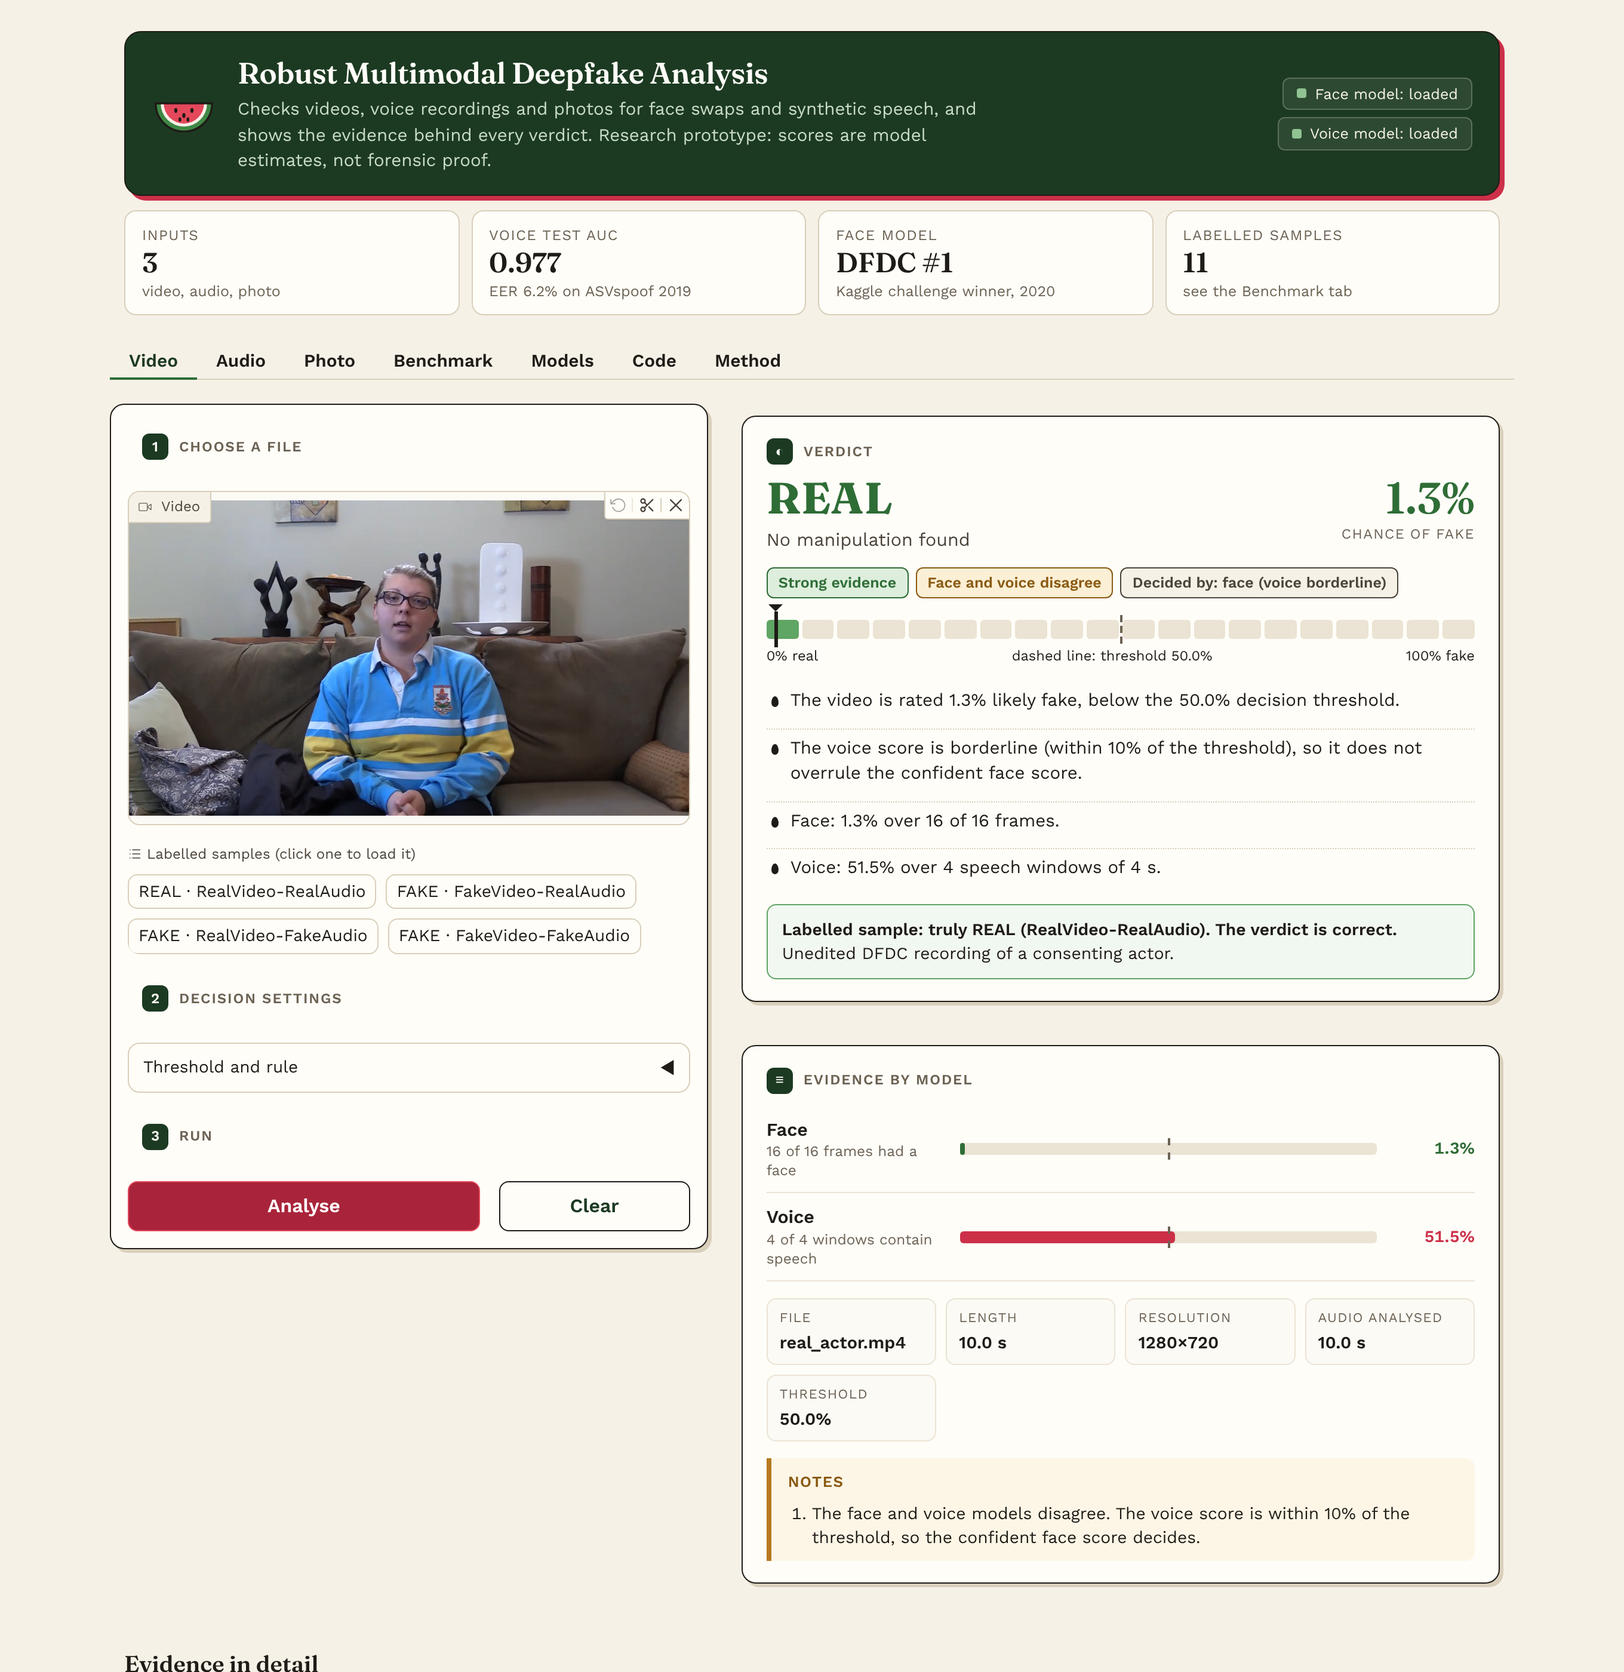
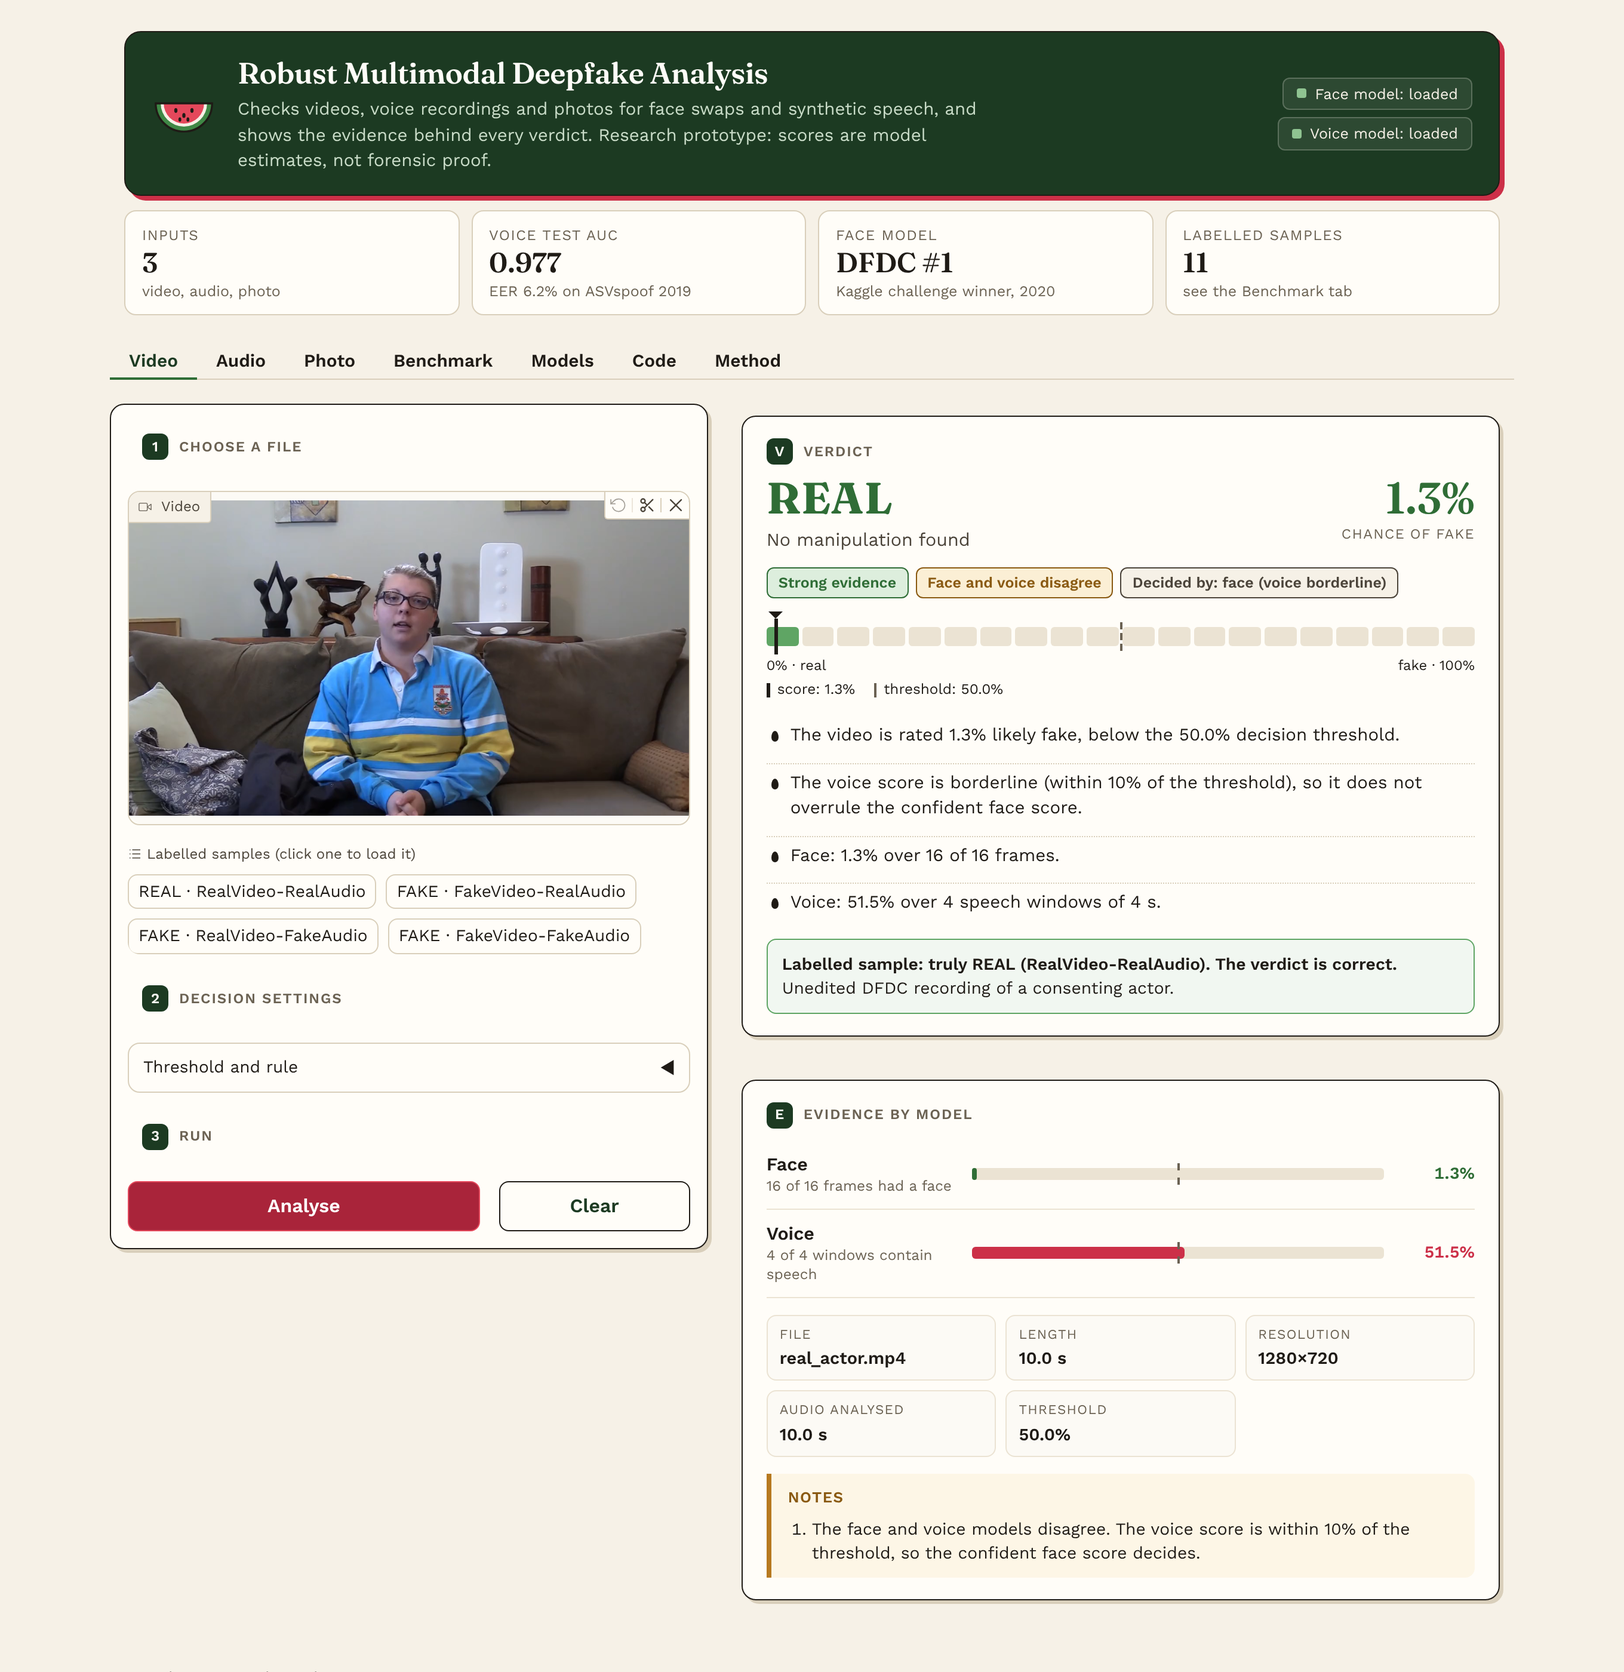
Fix unreadable and overlapping UI: dark mode, card overflow, code blocks
- Dark mode: the design is light only. Every *_dark theme variable now gets
  the light value, and a small head script removes Gradio's dark class, so an
  OS in dark mode no longer puts light text on the cream cards.
- Model cards and other grids: children get min-width 0, long words such as
  URLs wrap, and columns use minmax(min(100%, N), 1fr), so cards no longer push
  text across each other at narrow widths. The second model card no longer
  sits lower than the first.
- Verdict meter: only the two end labels sit under the bar; score and
  threshold are in a separate legend line, so labels do not collide.
- Evidence rows stack name, value and bar on phones; the verdict header wraps.
- Timeline chart: legend moved below the plot so it cannot cover the lines.
- Code blocks: no line wrapping (it broke line-number alignment), space under
  the copy/download toolbar so it does not cover the first line.

Checked in Chromium at 1280 px (dark OS), 1024, 768 and 390 px with a script
that flags any element spilling outside its card or overlapping a sibling card:
none found.

Claude-Session: https://claude.ai/code/session_01McjLYk3N3Q4Fcg5iDupnNm

diff --git a/src/deepfake/demo_theme.py b/src/deepfake/demo_theme.py
@@ -11,6 +11,8 @@ shadow, so cards read like printed stickers on paper.
 
 from __future__ import annotations
 
+import inspect
+
 import gradio as gr
 
 FLESH = gr.themes.Color(c50="#fff1f1", c100="#ffe1e1", c200="#ffc6c8", c300="#fb9da3", c400="#f2727d",
@@ -26,12 +28,13 @@ PITH = gr.themes.Color(c50="#fcfaf5", c100="#f6f1e7", c200="#ebe3d3", c300="#d9c
 COLORS = {"fake": "#cc3048", "real": "#2f6d36", "unsure": "#b7791f", "ink": "#1f1b16",
           "muted": "#6b6253", "line": "#d9cfbb"}
 
-THEME = gr.themes.Base(
+_LIGHT = dict(
     primary_hue=FLESH, secondary_hue=RIND, neutral_hue=PITH,
     radius_size=gr.themes.sizes.radius_md, spacing_size=gr.themes.sizes.spacing_md,
     font=[gr.themes.GoogleFont("Work Sans"), "ui-sans-serif", "system-ui", "sans-serif"],
     font_mono=[gr.themes.GoogleFont("JetBrains Mono"), "ui-monospace", "Menlo", "monospace"],
-).set(
+)
+_VARS = dict(
     body_background_fill="#f6f1e7", body_text_color="#1f1b16", body_text_color_subdued="#6b6253",
     background_fill_primary="#fffdf8", background_fill_secondary="#fcfaf5",
     block_background_fill="#fffdf8", block_border_color="#d9cfbb", block_border_width="1.5px",
@@ -48,10 +51,41 @@ THEME = gr.themes.Base(
     slider_color="#cc3048", checkbox_label_background_fill_selected="#ddeedd",
     color_accent="#2f6d36", color_accent_soft="#ddeedd", link_text_color="#2f6d36",
     link_text_color_hover="#a9243a", table_even_background_fill="#fcfaf5", table_odd_background_fill="#fffdf8",
+    body_text_color_strong="#1f1b16", block_info_text_color="#6b6253", code_background_fill="#fcfaf5",
+    panel_background_fill="#fcfaf5", panel_border_color="#d9cfbb", checkbox_background_color="#fffdf8",
+    checkbox_border_color="#d9cfbb", input_placeholder_color="#807562", accordion_text_color="#1f1b16",
+    table_text_color="#1f1b16", table_border_color="#d9cfbb", button_cancel_background_fill="#fffdf8",
 )
+
+
+def _build_theme() -> gr.themes.Base:
+    """The design is light only: every *_dark variable gets the light value, so an OS in dark mode
+    does not put light text on the cream cards."""
+    theme = gr.themes.Base(**_LIGHT)
+    accepted = inspect.signature(theme.set).parameters
+    theme.set(**{k: v for k, v in _VARS.items() if k in accepted})
+    dark = {}
+    for name in accepted:
+        if name.endswith("_dark") and hasattr(theme, name[:-5]):
+            value = getattr(theme, name[:-5])
+            if isinstance(value, str):
+                dark[name] = value
+    theme.set(**dark)
+    return theme
+
+
+THEME = _build_theme()
 
 CSS = """
 .gradio-container {max-width: 1240px !important; margin: 0 auto !important;}
+:root, .dark {color-scheme: light;}
+[class*="wm-"], [class*="wm-"] * {box-sizing: border-box;}
+.wm-card, .wm-plain, .wm-stat, .wm-tile, .wm-table-wrap, .wm-code-head, .wm-models, .wm-grid2, .wm-empty
+  {color: #1f1b16; min-width: 0; overflow-wrap: anywhere; word-break: normal;}
+.wm-card code, .wm-plain code, .wm-lead code {background: #f6f1e7; color: #4b443a; padding: 1px 5px; border-radius: 4px;
+  font-size: 0.82em; overflow-wrap: anywhere;}
+.wm-models > *, .wm-grid2 > *, .wm-strip > *, .wm-tiles > *, .wm-dl > *, .wm-steps > * {min-width: 0;}
+.prose .wm-card h3, .wm-card h3 {color: #1f1b16; margin-top: 0;}
 .gradio-container h1, .gradio-container h2, .gradio-container h3, .wm-serif
   {font-family: 'Fraunces', Georgia, 'Times New Roman', serif; letter-spacing: -0.01em;}
 footer {display: none !important;}
@@ -70,7 +104,7 @@ footer {display: none !important;}
 .wm-led {width: 8px; height: 8px; border-radius: 2px; display: inline-block;}
 .wm-led.on {background: #8fc391;} .wm-led.off {background: #807562;}
 
-.wm-strip {display: grid; grid-template-columns: repeat(4, minmax(0, 1fr)); gap: 10px; margin: 12px 0 4px;}
+.wm-strip {display: grid; grid-template-columns: repeat(auto-fit, minmax(min(100%, 200px), 1fr)); gap: 10px; margin: 12px 0 4px;}
 .wm-stat {background: #fffdf8; border: 1.5px solid #d9cfbb; border-radius: 10px; padding: 10px 14px;}
 .wm-stat b {display: block; font-family: 'Fraunces', Georgia, serif; font-size: 1.45rem; font-weight: 600;
   font-variant-numeric: tabular-nums; color: #1f1b16; line-height: 1.15;}
@@ -85,6 +119,7 @@ footer {display: none !important;}
 .wm-card {background: #fffdf8; border: 1.5px solid #1f1b16; border-radius: 12px; padding: 18px 20px;
   box-shadow: 3px 3px 0 #d9cfbb;}
 .wm-card + .wm-card {margin-top: 12px;}
+.wm-models > .wm-card, .wm-grid2 > .wm-card {margin-top: 0 !important;}
 .wm-plain {background: #fffdf8; border: 1.5px solid #d9cfbb; border-radius: 12px; padding: 16px 18px;}
 .wm-kicker {display: flex; align-items: center; gap: 9px; font-size: 0.75rem; font-weight: 600;
   text-transform: uppercase; letter-spacing: 0.08em; color: #6b6253; margin: 0 0 10px;}
@@ -107,10 +142,10 @@ footer {display: none !important;}
   letter-spacing: 0.08em; text-transform: uppercase;}
 
 /* ---------- verdict ---------- */
-.wm-verdict {display: grid; grid-template-columns: 1fr auto; gap: 14px; align-items: start;}
+.wm-verdict {display: flex; flex-wrap: wrap; justify-content: space-between; gap: 10px 18px; align-items: flex-start;}
 .wm-word {font-family: 'Fraunces', Georgia, serif; font-size: 2.3rem; font-weight: 700; line-height: 1; letter-spacing: 0.01em;}
 .wm-label {margin-top: 6px; font-size: 0.95rem; color: #4b443a;}
-.wm-num {text-align: right; font-family: 'Fraunces', Georgia, serif; font-size: 2.3rem; font-weight: 600;
+.wm-num {text-align: right; margin-left: auto; font-family: 'Fraunces', Georgia, serif; font-size: 2.3rem; font-weight: 600;
   line-height: 1; font-variant-numeric: tabular-nums;}
 .wm-num small {display: block; font-family: 'Work Sans', sans-serif; font-size: 0.74rem; font-weight: 500;
   color: #6b6253; margin-top: 6px; text-transform: uppercase; letter-spacing: 0.06em;}
@@ -120,14 +155,18 @@ footer {display: none !important;}
 .wm-tag.g {color: #2f6d36; background: #ddeedd;} .wm-tag.r {color: #a9243a; background: #ffe1e1;}
 .wm-tag.y {color: #8a5a12; background: #fbefd5;} .wm-tag.n {color: #4b443a; background: #f6f1e7;}
 
-.wm-meter {margin: 18px 0 4px;}
+.wm-meter {margin: 22px 0 4px; padding-top: 2px;}
 .wm-track {position: relative; height: 16px; display: grid; grid-template-columns: repeat(20, 1fr); gap: 3px;}
 .wm-track span {border-radius: 3px; background: #ebe3d3;}
 .wm-track span.lit-g {background: #5fa564;} .wm-track span.lit-r {background: #e4485b;}
 .wm-mark {position: absolute; top: -7px; width: 0; height: 30px; border-left: 3px solid #1f1b16; transform: translateX(-1.5px);}
 .wm-mark::after {content: ""; position: absolute; top: -6px; left: -7.5px; border: 6px solid transparent; border-top-color: #1f1b16;}
 .wm-thr {position: absolute; top: -4px; height: 24px; border-left: 2px dashed #6b6253;}
-.wm-scale {display: flex; justify-content: space-between; font-size: 0.74rem; color: #6b6253; margin-top: 6px;}
+.wm-scale {display: flex; justify-content: space-between; gap: 12px; font-size: 0.74rem; color: #6b6253; margin-top: 8px;}
+.wm-legend {display: flex; flex-wrap: wrap; gap: 4px 16px; font-size: 0.76rem; color: #6b6253; margin-top: 4px;}
+.wm-legend span {display: inline-flex; align-items: center; gap: 6px; white-space: nowrap;}
+.wm-legend .k-mark {width: 0; height: 12px; border-left: 3px solid #1f1b16;}
+.wm-legend .k-thr {width: 0; height: 12px; border-left: 2px dashed #6b6253;}
 .wm-why {margin: 14px 0 0; padding: 0; list-style: none;}
 .wm-why li {position: relative; padding: 5px 0 5px 20px; font-size: 0.92rem; line-height: 1.45; border-top: 1px dotted #d9cfbb;}
 .wm-why li:first-child {border-top: none;}
@@ -139,7 +178,7 @@ footer {display: none !important;}
 .wm-truth b {display: block; margin-bottom: 2px;}
 
 /* ---------- evidence ---------- */
-.wm-row {display: grid; grid-template-columns: 150px 1fr 70px; gap: 12px; align-items: center;
+.wm-row {display: grid; grid-template-columns: minmax(110px, 160px) minmax(0, 1fr) 64px; gap: 12px; align-items: center;
   padding: 10px 0; border-bottom: 1px solid #ebe3d3;}
 .wm-row:last-of-type {border-bottom: none;}
 .wm-row strong {display: block; font-size: 0.95rem;}
@@ -149,7 +188,7 @@ footer {display: none !important;}
 .wm-bar > i {position: absolute; top: -4px; bottom: -4px; border-left: 2px dashed #6b6253;}
 .wm-val {text-align: right; font-weight: 700; font-variant-numeric: tabular-nums;}
 .wm-na {color: #807562; font-size: 0.85rem;}
-.wm-dl {display: grid; grid-template-columns: repeat(auto-fit, minmax(140px, 1fr)); gap: 8px; margin: 14px 0 0;}
+.wm-dl {display: grid; grid-template-columns: repeat(auto-fit, minmax(min(100%, 150px), 1fr)); gap: 8px; margin: 14px 0 0;}
 .wm-dl div {background: #fcfaf5; border: 1px solid #ebe3d3; border-radius: 8px; padding: 8px 10px;}
 .wm-dl dt {font-size: 0.7rem; text-transform: uppercase; letter-spacing: 0.06em; color: #6b6253;}
 .wm-dl dd {margin: 2px 0 0; font-weight: 600; font-size: 0.9rem; overflow-wrap: anywhere;}
@@ -175,15 +214,16 @@ table.wm-table td.num, table.wm-table th.num {text-align: right; font-variant-nu
 .wm-mini > span {position: absolute; left: 0; top: 0; bottom: 0;}
 
 /* ---------- models ---------- */
-.wm-models {display: grid; grid-template-columns: repeat(auto-fit, minmax(320px, 1fr)); gap: 14px;}
+.wm-models {display: grid; grid-template-columns: repeat(auto-fit, minmax(min(100%, 340px), 1fr)); gap: 14px;
+  align-items: start; margin-bottom: 14px;}
 .wm-models h3 {margin: 0 0 4px; font-size: 1.15rem;}
 .wm-badge {display: inline-block; font-family: 'Work Sans', sans-serif; padding: 2px 8px; border-radius: 5px;
   font-size: 0.7rem; font-weight: 700; margin-left: 6px; vertical-align: middle; text-transform: uppercase; letter-spacing: 0.05em;}
 .wm-badge.own {background: #ffe1e1; color: #a9243a;} .wm-badge.ext {background: #ddeedd; color: #27572d;}
-.wm-spec {display: grid; grid-template-columns: 120px 1fr; gap: 0; margin: 12px 0 0; font-size: 0.88rem;}
+.wm-spec {display: grid; grid-template-columns: minmax(96px, 30%) minmax(0, 1fr); column-gap: 14px; gap: 0; margin: 12px 0 0; font-size: 0.88rem;}
 .wm-spec dt, .wm-spec dd {padding: 7px 0; border-top: 1px solid #ebe3d3; margin: 0;}
 .wm-spec dt {color: #6b6253;}
-.wm-tiles {display: grid; grid-template-columns: repeat(auto-fit, minmax(150px, 1fr)); gap: 10px;}
+.wm-tiles {display: grid; grid-template-columns: repeat(auto-fit, minmax(min(100%, 160px), 1fr)); gap: 10px; margin-bottom: 6px;}
 .wm-tile {background: #fffdf8; border: 1.5px solid #d9cfbb; border-radius: 10px; padding: 12px 14px;}
 .wm-tile span {display: block; font-size: 0.72rem; text-transform: uppercase; letter-spacing: 0.06em; color: #6b6253;}
 .wm-tile b {display: block; font-family: 'Fraunces', Georgia, serif; font-size: 1.5rem; font-weight: 600; font-variant-numeric: tabular-nums;}
@@ -194,17 +234,22 @@ table.wm-table td.num, table.wm-table th.num {text-align: right; font-variant-nu
 .wm-cm .ok {background: #ddeedd; color: #1c3a22;} .wm-cm .bad {background: #ffe1e1; color: #8b2035;}
 
 /* ---------- code ---------- */
-.wm-code-head {display: grid; grid-template-columns: 34px 1fr; gap: 12px; align-items: start; margin: 22px 0 8px;}
+.wm-code-head {display: grid; grid-template-columns: 34px minmax(0, 1fr); gap: 12px; align-items: start; margin: 22px 0 8px;}
 .wm-code-head > i {font-style: normal; display: grid; place-items: center; width: 34px; height: 34px; border-radius: 8px;
   background: #cc3048; color: #fffdf8; font-weight: 700; border: 1.5px solid #1f1b16;}
 .wm-code-head b {display: block; font-size: 1rem;}
 .wm-code-head p {margin: 2px 0 0; color: #6b6253; font-size: 0.86rem; line-height: 1.45;}
 .wm-code-head code {font-size: 0.76rem; background: #f6f1e7; padding: 1px 6px; border-radius: 4px; color: #4b443a;}
+.wm-code-head code {display: inline-block; margin-top: 4px;}
+.wm-codebox {border: 1.5px solid #d9cfbb !important; border-radius: 10px !important; overflow: hidden;}
+.wm-codebox .cm-scroller {padding-top: 34px !important; line-height: 1.55 !important;}
+.wm-codebox .cm-content, .wm-codebox .cm-gutters {font-family: 'JetBrains Mono', ui-monospace, Menlo, monospace !important;
+  font-size: 13px !important;}
 .wm-group {font-family: 'Fraunces', Georgia, serif; font-size: 1.3rem; font-weight: 600; margin: 26px 0 0;
   padding-bottom: 6px; border-bottom: 2px solid #1f1b16;}
 
 /* ---------- method ---------- */
-.wm-grid2 {display: grid; grid-template-columns: repeat(auto-fit, minmax(340px, 1fr)); gap: 14px;}
+.wm-grid2 {display: grid; grid-template-columns: repeat(auto-fit, minmax(min(100%, 360px), 1fr)); gap: 14px; align-items: start;}
 .wm-pipe {list-style: none; margin: 8px 0 0; padding: 0; counter-reset: s;}
 .wm-pipe li {counter-increment: s; position: relative; padding: 9px 0 9px 40px; border-top: 1px solid #ebe3d3; font-size: 0.9rem; line-height: 1.45;}
 .wm-pipe li:first-child {border-top: none;}
@@ -226,14 +271,22 @@ table.wm-table td.num, table.wm-table th.num {text-align: right; font-variant-nu
   .wm-stack > * {min-width: 0 !important; width: 100% !important; flex: 1 1 auto !important;}
 }
 @media (max-width: 560px) {
+  .wm-row {grid-template-columns: minmax(0, 1fr) auto; row-gap: 6px;}
+  .wm-row > .wm-bar, .wm-row > .wm-na:not(.wm-val) {grid-column: 1 / -1; grid-row: 2;}
+  .wm-num {text-align: left; margin-left: 0;}
   .wm-top {grid-template-columns: 1fr; padding: 16px;} .wm-top .wm-logo {width: 40px; height: 40px;}
   .wm-top h1 {font-size: 1.3rem;}
-  .wm-word, .wm-num {font-size: 1.8rem;} .wm-row {grid-template-columns: 96px 1fr 56px; gap: 8px;}
+  .wm-word, .wm-num {font-size: 1.8rem;}
   .wm-steps {grid-template-columns: 1fr;} .wm-spec {grid-template-columns: 1fr;} .wm-spec dd {border-top: none; padding-top: 0;}
 }
 """
 
-HEAD = ('<link rel="preconnect" href="https://fonts.googleapis.com">'
+FORCE_LIGHT = ("<script>(function(){var d=function(){[document.documentElement,document.body].forEach("
+               "function(e){if(e&&e.classList.contains('dark'))e.classList.remove('dark');});};d();"
+               "new MutationObserver(d).observe(document.documentElement,{attributes:true,subtree:true,"
+               "attributeFilter:['class']});})();</script>")
+
+HEAD = FORCE_LIGHT + ('<link rel="preconnect" href="https://fonts.googleapis.com">'
         '<link href="https://fonts.googleapis.com/css2?family=Fraunces:opsz,wght@9..144,500;9..144,600;9..144,700'
         '&display=swap" rel="stylesheet">')
 

diff --git a/src/deepfake/demo.py b/src/deepfake/demo.py
@@ -144,8 +144,10 @@ def _meter(p: float | None, t: float) -> str:
     mark = "" if p is None else f'<div class="wm-mark" style="left:{100 * p:.1f}%" title="score"></div>'
     return (f'<div class="wm-meter"><div class="wm-track">{"".join(cells)}'
             f'<div class="wm-thr" style="left:{100 * t:.1f}%" title="threshold"></div>{mark}</div>'
-            f'<div class="wm-scale"><span>0% real</span><span>dashed line: threshold {_pct(t)}</span>'
-            f'<span>100% fake</span></div></div>')
+            f'<div class="wm-scale"><span>0% · real</span><span>fake · 100%</span></div>'
+            f'<div class="wm-legend"><span><i class="k-mark"></i>score'
+            f'{": " + _pct(p) if p is not None else " (none)"}</span>'
+            f'<span><i class="k-thr"></i>threshold: {_pct(t)}</span></div></div>')
 
 
 def verdict_html(res: dict | None, kind: str = "video", truth: dict | None = None) -> str:
@@ -583,7 +585,7 @@ def _code_tab(run: dict | None):
         gr.HTML(f'<div class="wm-code-head"><i>{i + 1}</i><div><b>{_esc(s["title"])}</b>'
                 f'<p>{_esc(s["text"])}{where}</p></div></div>')
         gr.Code(**_kw(gr.Code, value=s["code"], language=s["language"], interactive=False, show_label=False,
-                      label=s["title"], lines=1, max_lines=40))
+                      label=s["title"], lines=1, max_lines=40, elem_classes="wm-codebox"))
 
 
 def create_demo(analyzer: Analyzer) -> gr.Blocks:

diff --git a/src/deepfake/analyzer.py b/src/deepfake/analyzer.py
@@ -376,7 +376,7 @@ def timeline_figure(res: dict) -> np.ndarray | None:
     if not (has_face or has_voice):
         return None
     duration = res["info"].get("duration") or (voice["seconds"] if voice else 1.0) or 1.0
-    fig, ax = plt.subplots(figsize=(9, 2.6), dpi=110, facecolor=PAPER)
+    fig, ax = plt.subplots(figsize=(9, 3.0), dpi=110, facecolor=PAPER)
     if has_voice:
         for w in voice["windows"]:
             ax.plot([w["start"], w["end"]], [w["p_fake"]] * 2, color=COLORS["voice"], linewidth=5,
@@ -398,6 +398,6 @@ def timeline_figure(res: dict) -> np.ndarray | None:
     ax.set_xlabel("time in the clip (s)", fontsize=8, color=COLORS["muted"])
     ax.set_ylabel("P(fake)", fontsize=8, color=COLORS["muted"])
     _style(ax)
-    ax.legend(fontsize=7.5, frameon=False, loc="upper left", bbox_to_anchor=(1.0, 1.0))
+    ax.legend(fontsize=7.5, frameon=False, loc="upper center", bbox_to_anchor=(0.5, -0.32), ncol=3)
     fig.tight_layout()
     return figure_to_array(fig)
